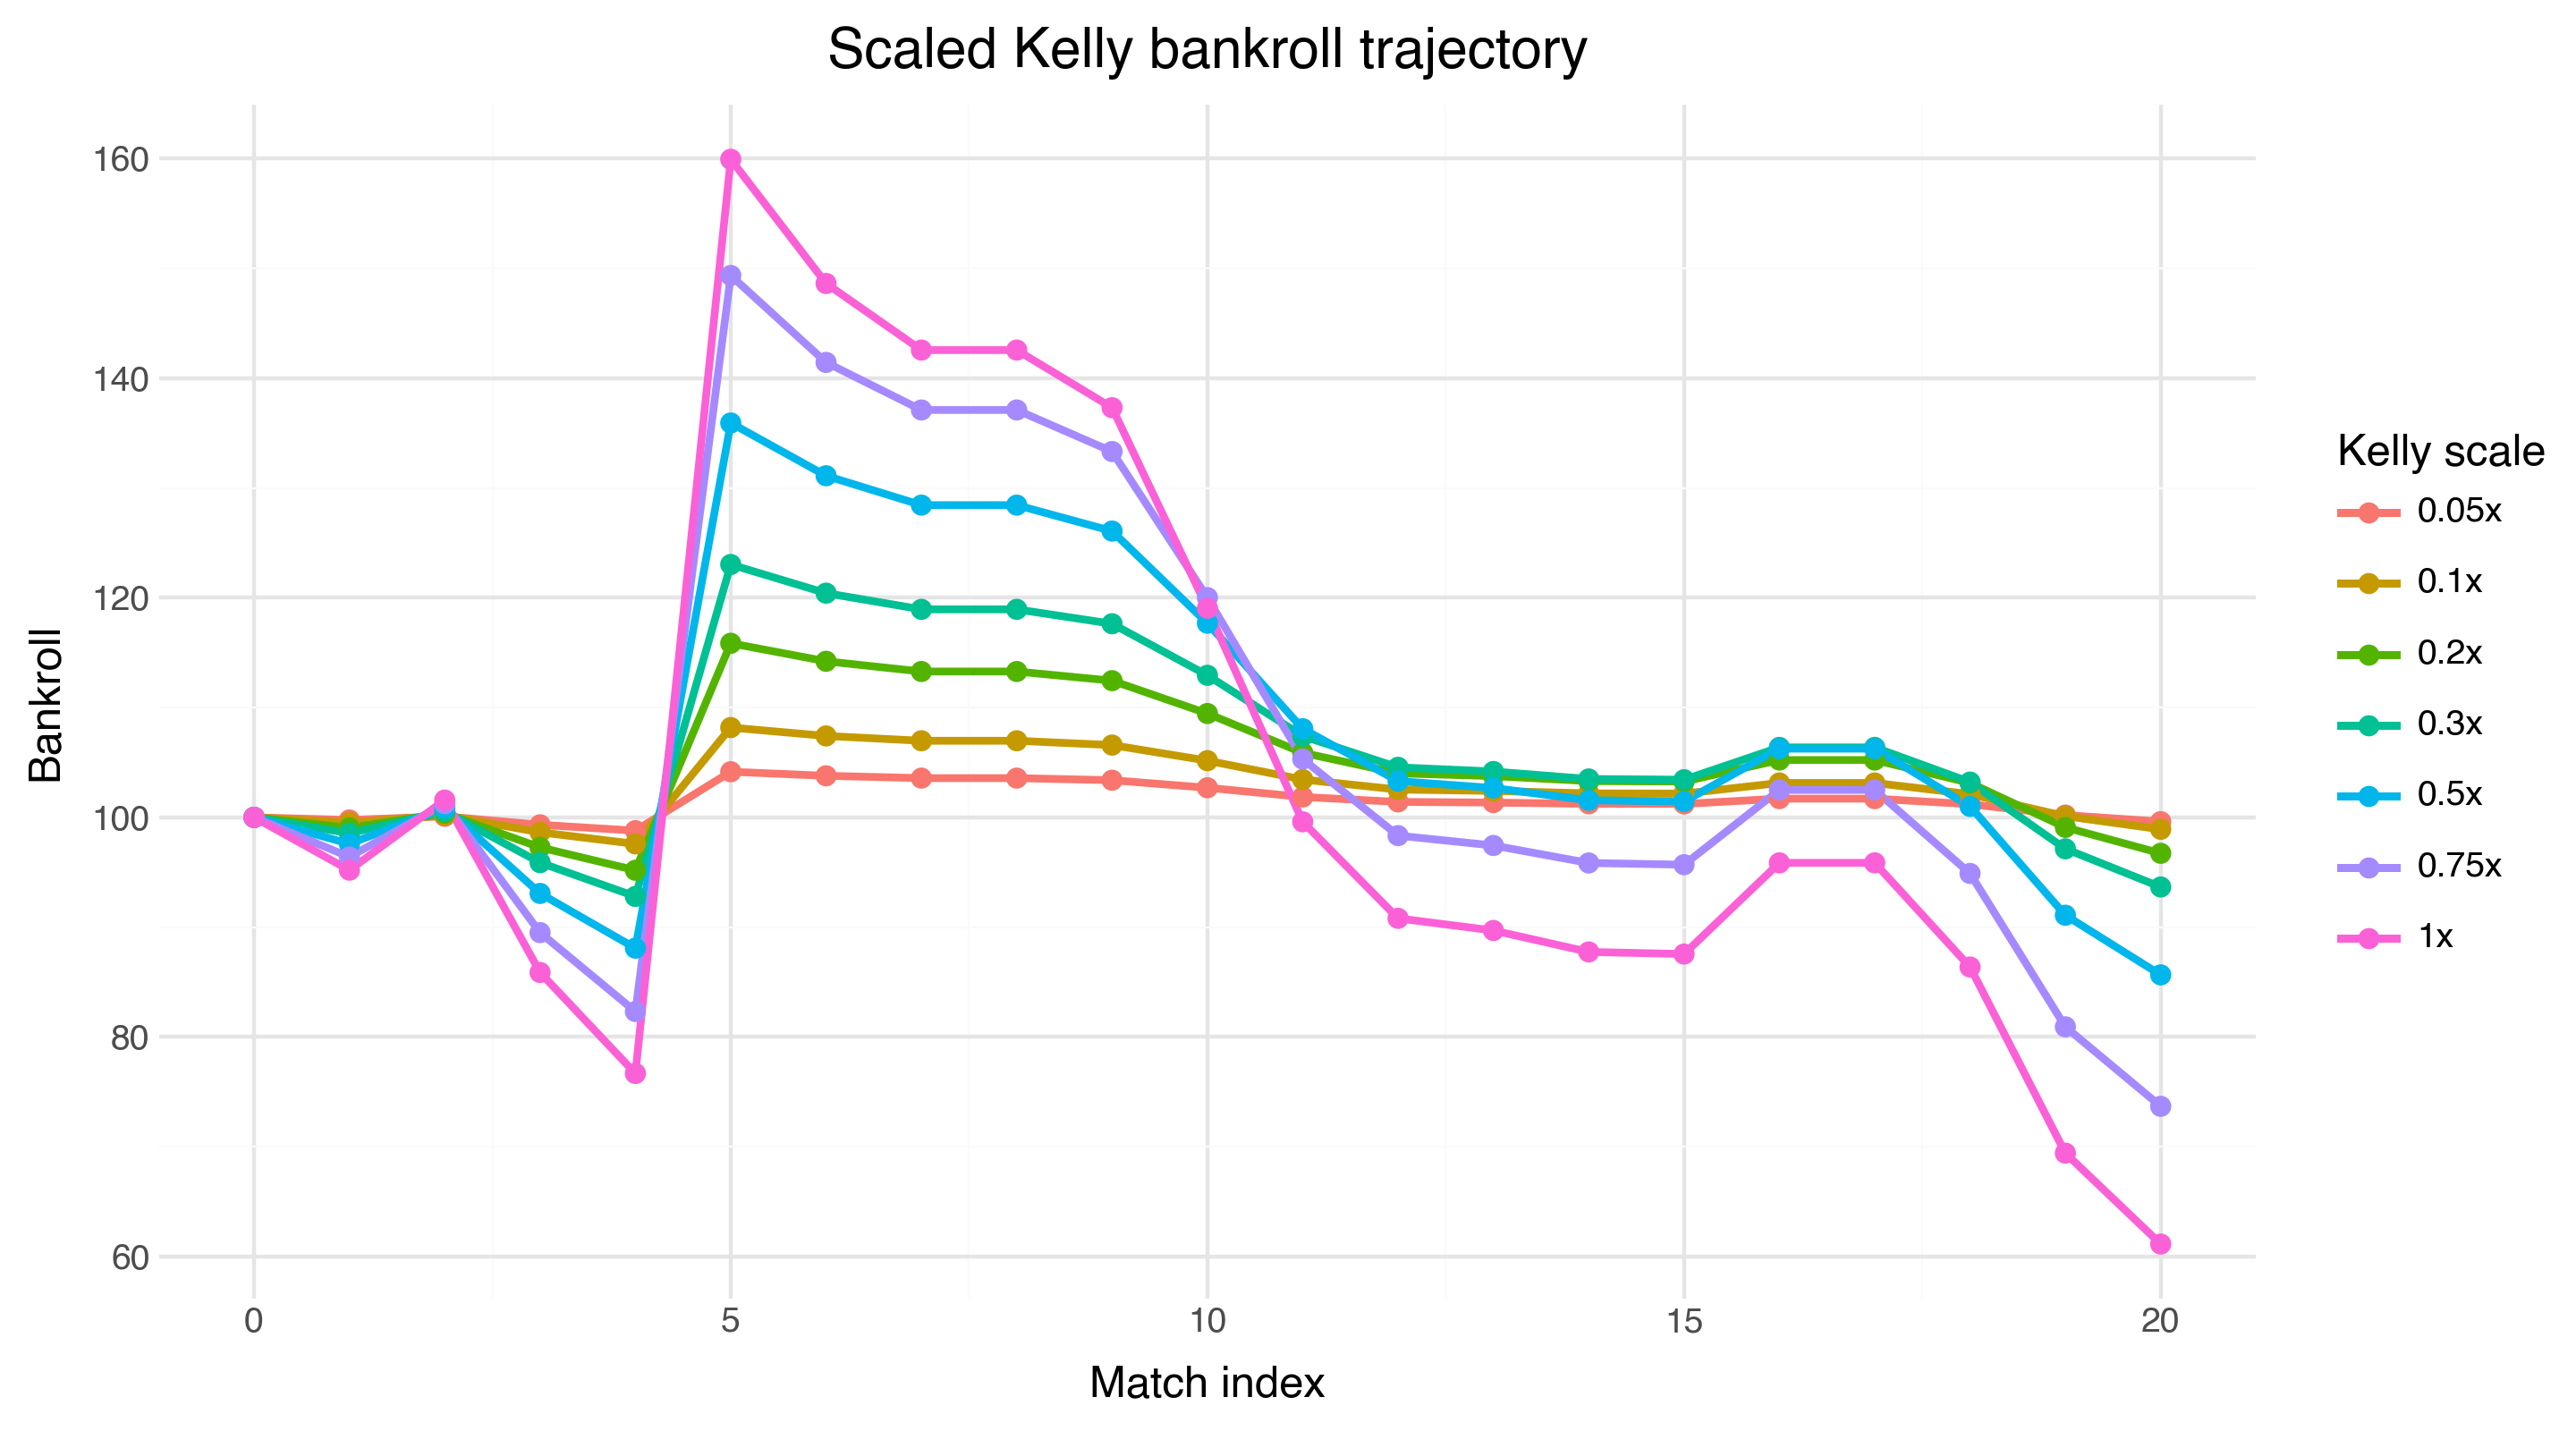
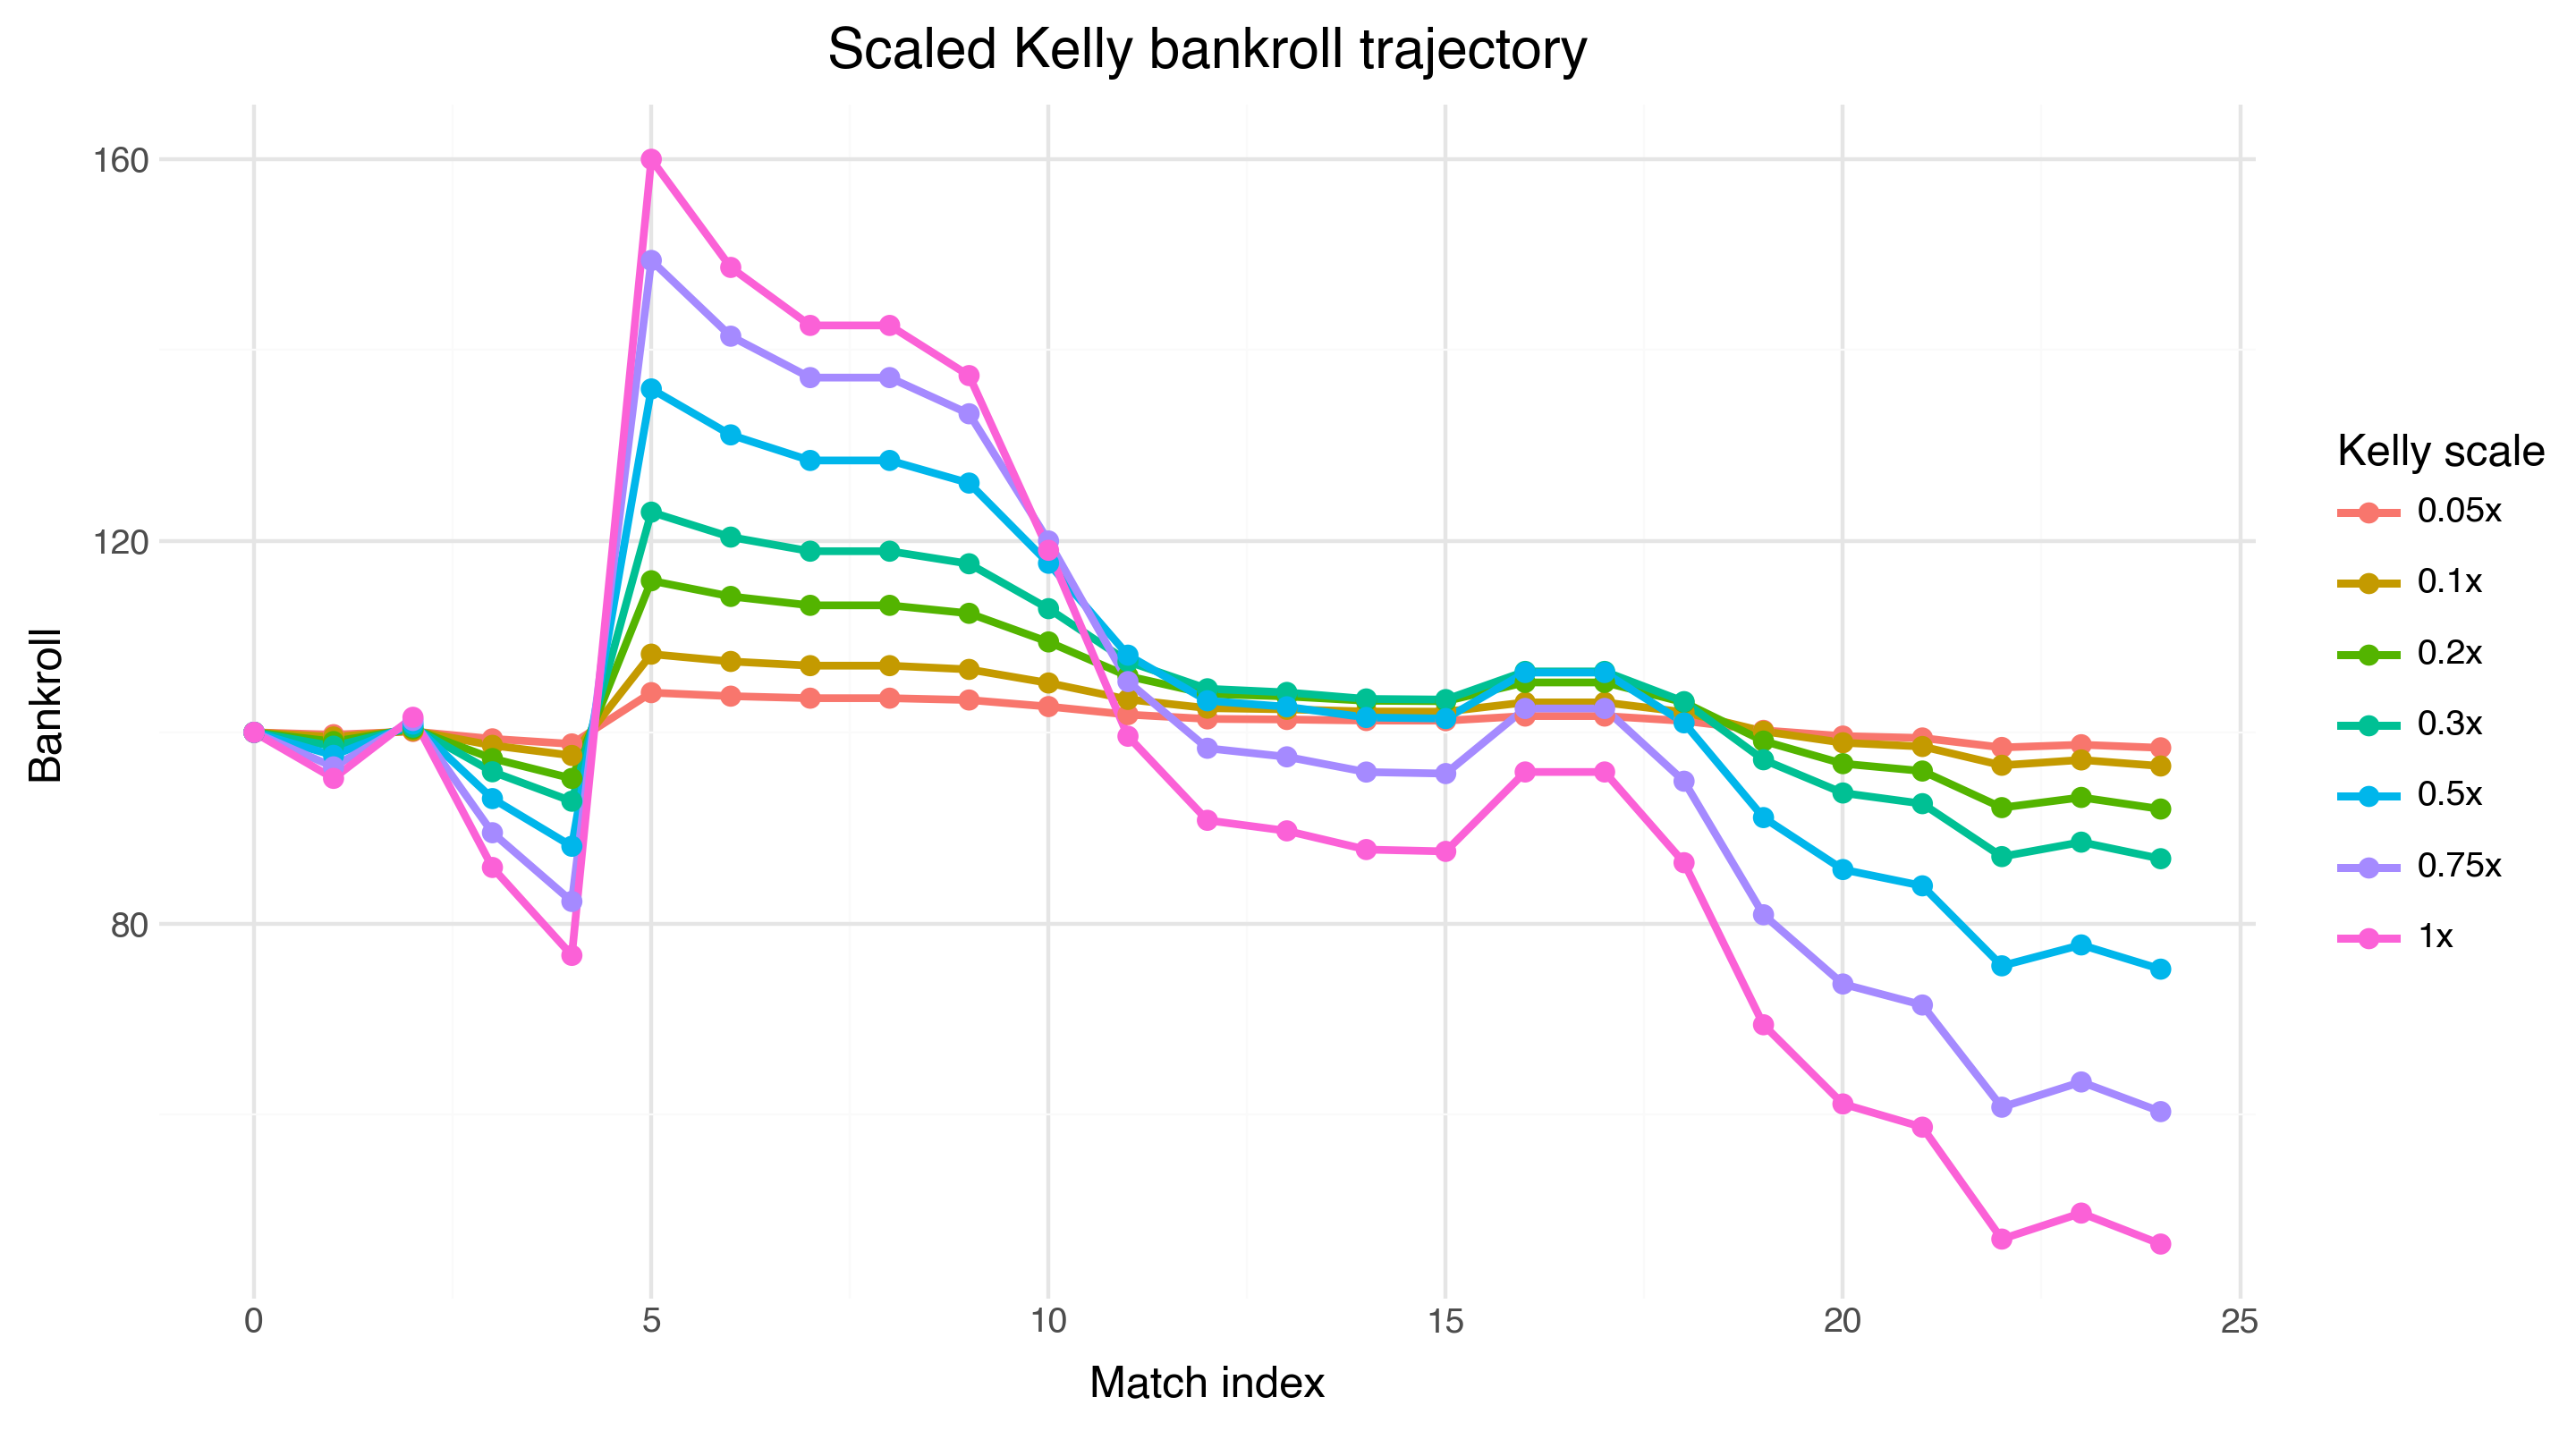
Auto fotmob odds for latest matches + rerun

diff --git a/scripts/kelly_backtest.py b/scripts/kelly_backtest.py
@@ -12,7 +12,6 @@ from __future__ import annotations
 
 import argparse
 import csv
-import html
 import json
 import math
 import re
@@ -36,28 +35,6 @@ from cuthberto_carlos.data import download_data
 DEFAULT_PREDICTION_ROOT = Path("outputs/predictions/2026-06-11")
 DEFAULT_OUTPUT_ROOT = Path("outputs/kelly_backtest/2026-06-11")
 DEFAULT_FOTMOB_CCODE3 = "GBR"
-FOTMOB_KNOWN_MATCH_IDS = (
-    4667751,
-    4667752,
-    4667757,
-    4667758,
-    4667764,
-    4667765,
-    4667771,
-    4667772,
-    4667777,
-    4667778,
-    4667783,
-    4667784,
-    4667790,
-    4667791,
-    4667798,
-    4667799,
-    4667804,
-    4667805,
-    4667812,
-    4667813,
-)
 RESULT_ORDER = ("draw", "home", "away")
 
 
@@ -274,87 +251,68 @@ def cached_json_request(url: str, cache_path: Path, timeout: float = 5.0) -> Any
     return payload
 
 
-def next_data_from_html(page: str) -> dict[str, Any]:
-    match = re.search(
-        r'<script id="__NEXT_DATA__" type="application/json">(.*?)</script>',
-        page,
-        flags=re.DOTALL,
-    )
-    if match is None:
-        raise ValueError("missing __NEXT_DATA__ script")
-    payload = json.loads(html.unescape(match.group(1)))
-    if not isinstance(payload, dict):
-        raise ValueError("unexpected __NEXT_DATA__ payload")
-    return payload
-
-
-def sports_event_from_html(page: str) -> dict[str, Any]:
-    def candidates(value: Any) -> Iterable[dict[str, Any]]:
-        if isinstance(value, dict):
-            yield value
-        elif isinstance(value, list):
-            for item in value:
-                if isinstance(item, dict):
-                    yield item
-
-    for match in re.finditer(
-        r'<script[^>]+type="application/ld\+json"[^>]*>(.*?)</script>',
-        page,
-        flags=re.DOTALL,
-    ):
-        try:
-            payload = json.loads(html.unescape(match.group(1)))
-        except json.JSONDecodeError:
-            continue
-        for candidate in candidates(payload):
-            if candidate.get("@type") == "SportsEvent":
-                return candidate
-    return {}
-
-
-def fotmob_match_page(match_id: int, cache_dir: Path) -> tuple[str, str]:
-    url = f"https://www.fotmob.com/match/{match_id}"
-    cache_path = cache_dir / "fotmob" / "matches" / f"{match_id}.html"
-    if cache_path.exists():
-        return cache_path.read_text(), url
-    cache_path.parent.mkdir(parents=True, exist_ok=True)
-    request = urllib.request.Request(url, headers={"User-Agent": "Mozilla/5.0"})
-    with urllib.request.urlopen(request, timeout=20.0) as response:
-        page = response.read().decode()
-        final_url = response.geturl()
-    cache_path.write_text(page)
-    return page, final_url
-
-
-def fotmob_match_metadata(match_id: int, cache_dir: Path) -> dict[str, str]:
-    page, final_url = fotmob_match_page(match_id, cache_dir)
+def fotmob_match_list_payload(
+    match_date: str, cache_dir: Path, ccode3: str
+) -> dict[str, Any] | None:
+    date_param = pd.to_datetime(match_date).strftime("%Y%m%d")
+    params = urllib.parse.urlencode({"date": date_param, "ccode3": ccode3})
+    url = f"https://www.fotmob.com/api/data/matches?{params}"
+    cache_path = cache_dir / "fotmob" / "match_lists" / f"{date_param}_{ccode3}.json"
     try:
-        payload = next_data_from_html(page)
-        event = (
-            payload.get("props", {})
-            .get("pageProps", {})
-            .get("content", {})
-            .get("seo", {})
-            .get("eventJSONLD", {})
-        )
-        if not isinstance(event, dict):
-            event = {}
-    except ValueError:
-        event = {}
-    if not event:
-        event = sports_event_from_html(page)
+        payload = cached_json_request(url, cache_path, timeout=20.0)
+    except Exception as exc:
+        print(f"Skipping FotMob match list for {date_param}: {exc}")
+        return None
+    return payload if isinstance(payload, dict) else None
 
-    home_team = event.get("homeTeam", {}).get("name")
-    away_team = event.get("awayTeam", {}).get("name")
-    start_date = event.get("startDate")
-    if not home_team or not away_team or not start_date:
-        raise ValueError(f"Could not parse FotMob metadata for match {match_id}")
-    return {
-        "date": date_str(start_date),
-        "home_team": str(home_team),
-        "away_team": str(away_team),
-        "url": final_url,
-    }
+
+def fotmob_match_list_metadata(
+    predictions: Iterable[Prediction], cache_dir: Path, ccode3: str
+) -> list[dict[str, str]]:
+    query_dates: set[str] = set()
+    for prediction in predictions:
+        prediction_date = pd.to_datetime(prediction.date)
+        for offset in (-1, 0, 1):
+            query_dates.add(
+                (prediction_date + pd.Timedelta(days=offset)).strftime("%Y-%m-%d")
+            )
+
+    matches: list[dict[str, str]] = []
+    seen_match_ids: set[int] = set()
+    for query_date in sorted(query_dates):
+        payload = fotmob_match_list_payload(query_date, cache_dir, ccode3)
+        if payload is None:
+            continue
+        for league in payload.get("leagues", []):
+            if not isinstance(league, dict):
+                continue
+            for match in league.get("matches", []):
+                if not isinstance(match, dict) or not is_number(match.get("id")):
+                    continue
+                match_id = int(match["id"])
+                if match_id in seen_match_ids:
+                    continue
+                home = match.get("home", {})
+                away = match.get("away", {})
+                status = match.get("status", {})
+                if not all(isinstance(value, dict) for value in (home, away, status)):
+                    continue
+                home_team = home.get("name") or home.get("longName")
+                away_team = away.get("name") or away.get("longName")
+                utc_time = status.get("utcTime")
+                if not home_team or not away_team or not utc_time:
+                    continue
+                seen_match_ids.add(match_id)
+                matches.append(
+                    {
+                        "match_id": str(match_id),
+                        "date": date_str(utc_time),
+                        "home_team": str(home_team),
+                        "away_team": str(away_team),
+                        "url": f"https://www.fotmob.com/match/{match_id}",
+                    }
+                )
+    return matches
 
 
 def fotmob_odds_payload(
@@ -396,13 +354,8 @@ def odds_from_fotmob(
         return None
 
     odds_rows: list[Odds] = []
-    for match_id in FOTMOB_KNOWN_MATCH_IDS:
-        try:
-            metadata = fotmob_match_metadata(match_id, cache_dir)
-        except Exception as exc:
-            print(f"Skipping FotMob match {match_id}: {exc}")
-            continue
-
+    for metadata in fotmob_match_list_metadata(prediction_rows, cache_dir, ccode3):
+        match_id = int(metadata["match_id"])
         prediction = matching_prediction(metadata)
         if prediction is None:
             continue